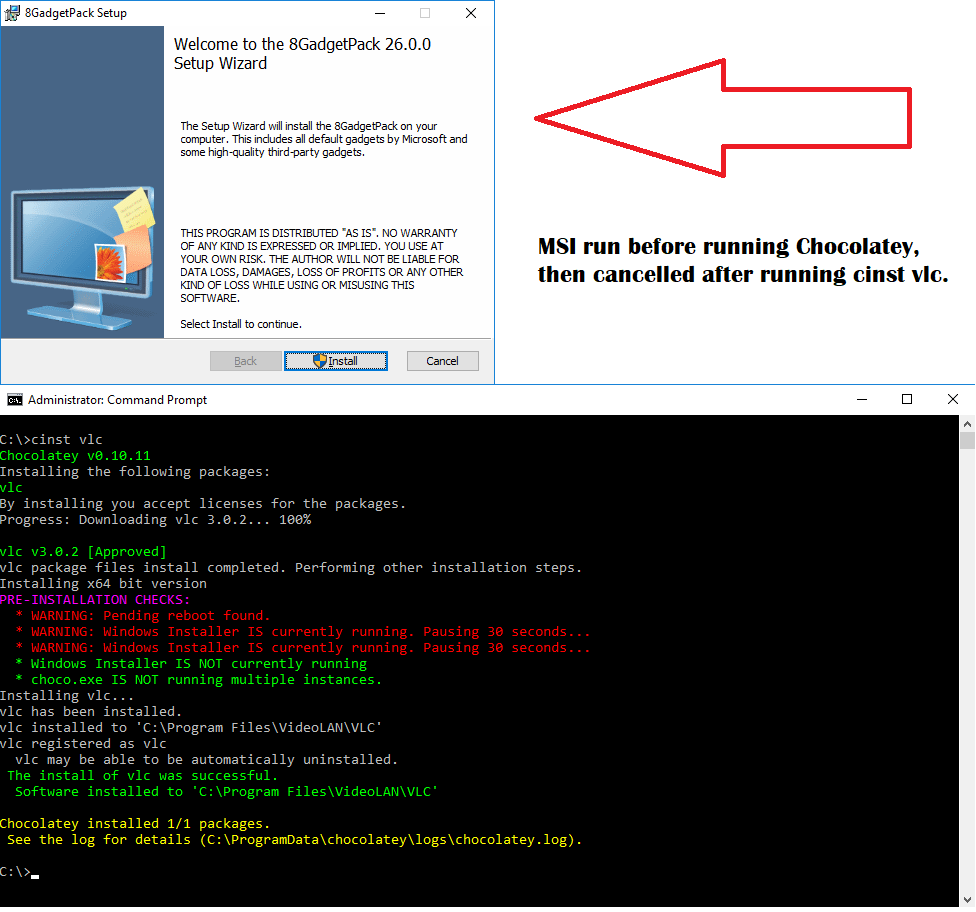
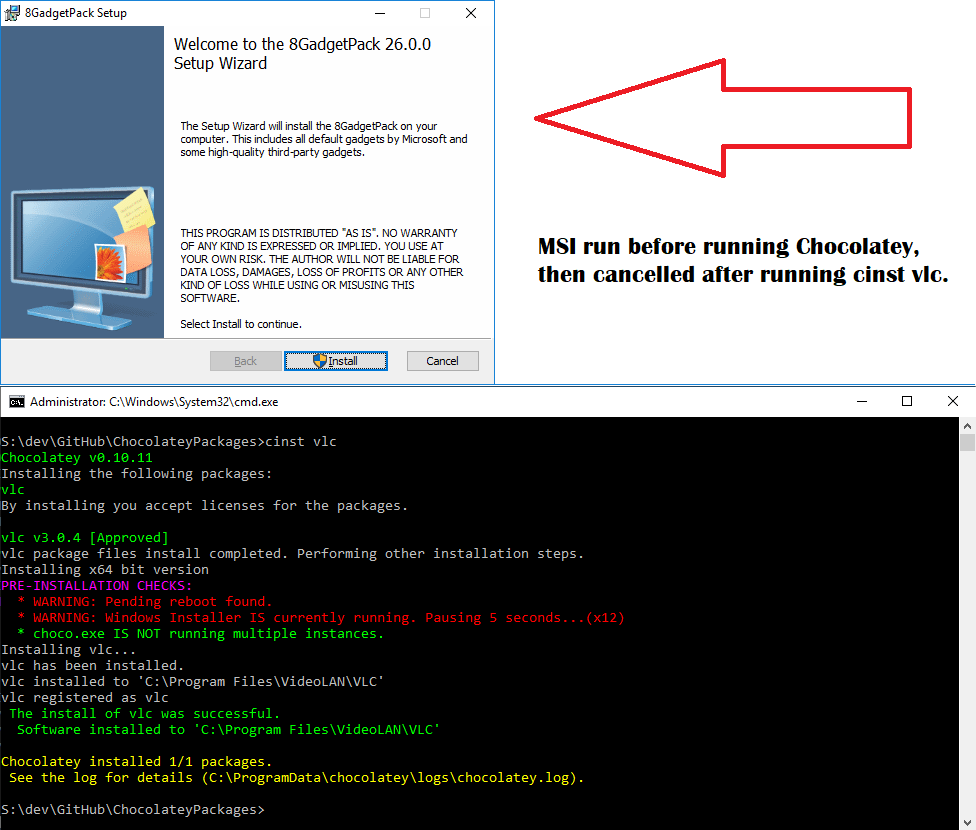
updates

diff --git a/chocolatey-preinstaller-checks.extension_extras/readme.md b/chocolatey-preinstaller-checks.extension_extras/readme.md
@@ -4,9 +4,8 @@
 
 * A BCURRAN3 original!
 * I personally use and endorse this extension.
-* The choco multi-instance checking is NOT compatible with the Chocolatey licensed self service agent as it runs choco.exe all the time.
 
-![Screenshot of chocolatey-preinstaller-checks.extension](https://raw.githubusercontent.com/bcurran3/ChocolateyPackages/master/chocolatey-preinstaller-checks.extension/chocolatey-preinstaller-checks.extension_screenshot.png)
+![Screenshot of chocolatey-preinstaller-checks.extension](https://raw.githubusercontent.com/bcurran3/ChocolateyPackages/master/chocolatey-preinstaller-checks.extension_extras/chocolatey-preinstaller-checks.extension_screenshot.png)
 
 ##**Chocolatey Preinstaller Checks Extension** is a Chocolatey extension that intercepts and runs checks before installing or uninstalling a program. This extension will start working automatically once installed and does NOT need to be implemented by package creators/maintainers. **Chocolatey Preinstaller Checks Extension** is meant to be installed and used directly by Chocolatey end users.
 
@@ -21,30 +20,23 @@ This extension attempts to head off problems related to:
 * [https://github.com/chocolatey/choco/issues/1526](https://github.com/chocolatey/choco/issues/1526)
 * [https://github.com/chocolatey/choco/issues/1548](https://github.com/chocolatey/choco/issues/1548)
 * [https://github.com/chocolatey/choco/issues/1579](https://github.com/chocolatey/choco/issues/1579)
-* and possibly others until such time that Chocolatey natively handles these issues better and this extension becomes moot.
+* and possibly others until such time that Chocolatey natively handles these issues better and this extension becomes moot. (Rumored to be 1.0.0 milestone)
 
-**Chocolatey Preinstaller Checks Extension**'s main purpose is to fend off specific types of problems before they occur. Currently Chocolatey (choco.exe) is not multi-instance friendly. If you try to install or uninstall packages using choco.exe in two Command Prompts at the same time, strange (bad) things may occur. **Chocolatey Preinstaller Checks Extension** avoids these strange (bad) things by intercepting calls to install and uninstall programs and making the current choco.exe instance wait for previous instances to finish. **Chocolatey Preinstaller Checks Extension** also checks Windows Installer to see if it's busy and will make MSI installer and uninstaller programs wait until Windows Installer has finished processing the other program. **Chocolatey Preinstaller Checks Extension** will pause and retry until [commandExecutionTimeoutSeconds](https://chocolatey.org/docs/chocolatey-configuration) hits it's threshold and then choco will abort. **Chocolatey Preinstaller Checks Extension** only runs before PROGRAM installations and uninstallations. It does not perform any functions related to portable packages or other choco commands.
+**Chocolatey Preinstaller Checks Extension**'s main purpose is to fend off specific types of problems before they occur. Currently Chocolatey (choco.exe) is not multi-instance friendly. If you try to install or uninstall packages using choco.exe in two Command Prompts at the same time, strange (bad!) things may occur. **Chocolatey Preinstaller Checks Extension** can avoid these strange (bad!) things by intercepting calls to install and uninstall programs and warn about the situation, wait for previous instances to finish, or abort; totally configurable. **Chocolatey Preinstaller Checks Extension** also checks Windows Installer to see if it's busy and will warn, make MSI installer and uninstaller programs wait until Windows Installer has finished processing the other program, or abort. **Chocolatey Preinstaller Checks Extension** only runs before PROGRAM installations and uninstallations. It does not perform any functions related to portable packages or other choco commands.
 
 ###FEATURES: 
+* **Chocolatey Preinstaller Checks Extension** is completely configurable to warn, wait, or abort.
 * **Chocolatey Preinstaller Checks Extension** will check if there is a pending reboot and warn you about it if so.
-* **Chocolatey Preinstaller Checks Extension** will check if there are instances of choco.exe already running and wait for them to finish.
-* **Chocolatey Preinstaller Checks Extension** will check if Windows Installer is already running and wait for it to finish.
-
-* The choco multi-instance checking is supposedly NOT compatible with the Chocolatey licensed self service agent as it supposedly runs choco.exe all the time.
-* If two instances of choco.exe run within 30 seconds of each other, they will most likely loop forever or at least until [commandExecutionTimeoutSeconds](https://chocolatey.org/docs/chocolatey-configuration).
-* Aborting a program package install/uninstall due to "* WARNING: x other instance(s) of choco.exe actual found running. Pausing 30 seconds..." will result in Chocolatey "loosing" the package, i.e. "[Pending] Removing incomplete install for 'packagename'" on next run. The result is the same if you have this extension or not and defeats the purpose of this extension.
+* **Chocolatey Preinstaller Checks Extension** will check if Windows Installer is already running and warn, wait for it to finish, or abort.
+* **Chocolatey Preinstaller Checks Extension** will check if there are instances of choco.exe already running and warn, wait for it to finish, or abort.
 
 ###CHANGE LOG:
-* 0.0.2 - Added configurable options to only warn or pause and retry when multiple instances are found. Added configurable pause time for each of the multiple instance checks. Added conditional handling options for each of the three checks, i.e. option to abort install based on condition. Edit C:\ProgramData\chocolatey\lib\chocolatey-preinstaller-checks.extension\Chocolatey-Preinstaller-Checks.xml. To warn only set WaitOnMultiple to false (default true). To abort install/uninstall when there is a problem set AbortOnMultiples to true (default false).
+* 0.0.2 - Added conditional handling options for two of the three checks, completely configurable (See C:\ProgramData\chocolatey\extensions\chocolatey-preinstaller-checks\Chocolatey-Preinstaller-Checks.xml). Now compatible with [Chocolatey Toast Notifications Extension](https://chocolatey.org/packages/chocolatey-toast-notifications.extension). Get-chocoCounts replaced by Get-chocoInstanceCounts (Thanks by Michel Buczynski AKA MikeBoutch!) for Chocolatey Self Service Agent compatibility. Default 30 second pause changed to 5 seconds and cosmetically better display.
 * 0.0.1 - initial release
 
 ROADMAP:
-* Check for the Chocolatey self service agent and handle differently (ignore?) when found.
-* Possibly add configurable options to enable disable each of the three checks.
-* Probably add configurable timeouts for each of the three checks.
-* Probably add conditional handling options for each of the three checks, i.e. option to abort install based on condition.
-
-You can add your options/wants/recommendations to https://github.com/bcurran3/ChocolateyPackages/issues/27
+* Option to abort install/uninstall if PendingRebootStatus is true.
+* Option to abort after a configurable amount of time waiting for other competing processes to finish.
 
 ***
 
